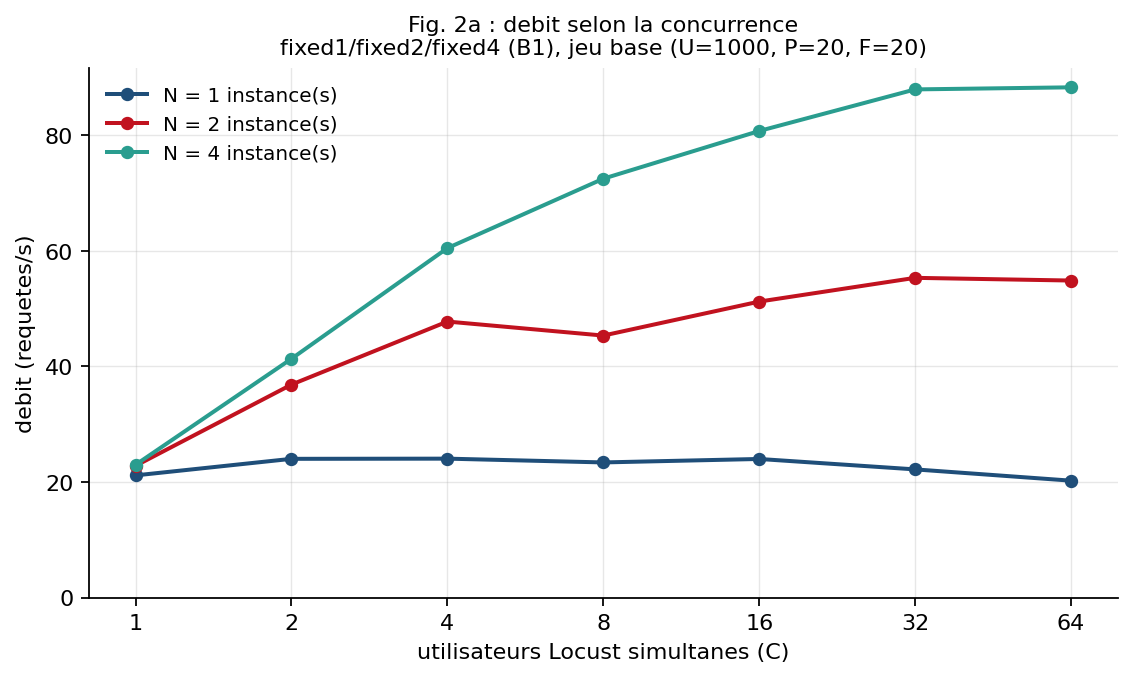
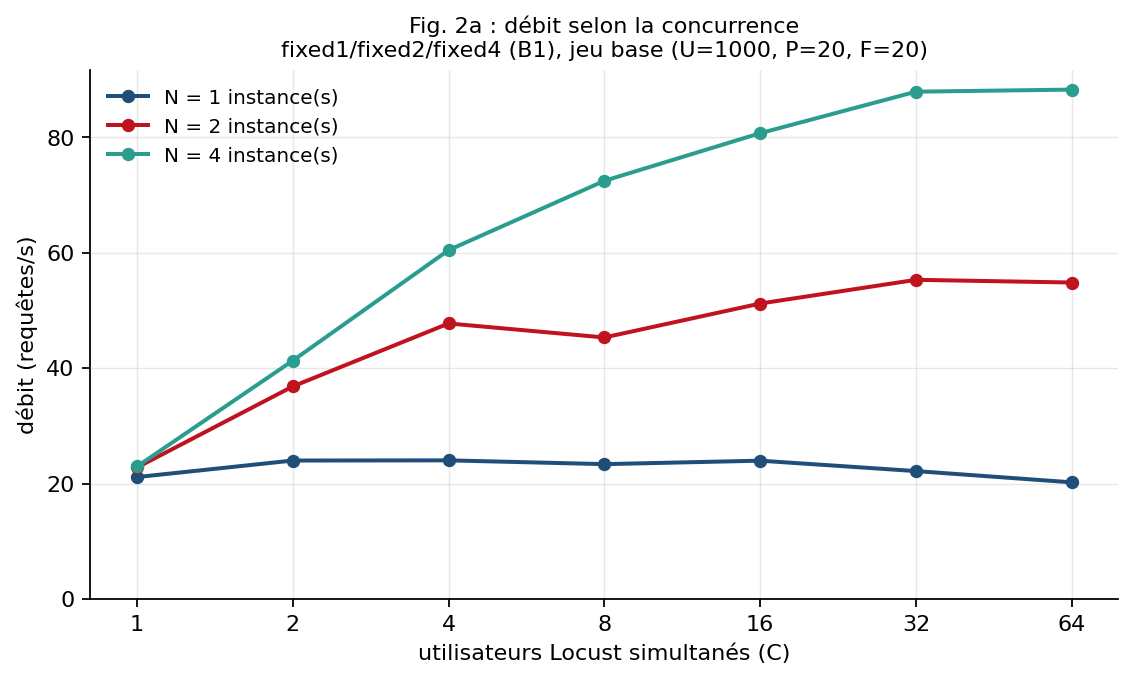
figs

diff --git a/scripts/analyze.py b/scripts/analyze.py
@@ -155,9 +155,9 @@ def fig1a(raw, out, warmup):
             continue
         ax.plot(df[key], df["server_ms_median"], "o-", color=COL[1], lw=1.8, ms=6)
         ax.set_xscale("log")
-        style(ax, lab, "temps serveur median (ms)",
+        style(ax, lab, "temps serveur médian (ms)",
               f"Fig. 1a : temps serveur selon {key}",
-              f"fixed1, 1 requete a la fois ({fixed})")
+              f"fixed1, 1 requête à la fois ({fixed})")
         top = max(top, float(df["server_ms_median"].max()))
     # axe y a partir de 0, sinon une courbe plate a l'air de bouger
     for ax in axes:
@@ -186,9 +186,9 @@ def fig1b(raw, out, warmup):
 
     fig, ax = plt.subplots(figsize=(7.2, 4.4))
     ax.plot(f["F"], f["client_ms_median"], "s-", color=COL[2], lw=1.6, ms=5,
-            label="latence client (mediane)")
+            label="latence client (médiane)")
     ax.plot(f["F"], f["server_ms_median"], "o-", color=COL[1], lw=1.8, ms=5,
-            label="temps serveur (median)")
+            label="temps serveur (médian)")
 
     # une droite par regime, pas une seule a travers la marche
     ok = f.dropna(subset=["server_ms_median"])
@@ -200,19 +200,9 @@ def fig1b(raw, out, warmup):
             xs = np.linspace(seg["F"].min(), seg["F"].max(), 50)
             ax.plot(xs, a * xs + b, "--", color=col, lw=1.3,
                     label=f"{lab} : {a:.2f} ms/followee")
-    if len(hi) and len(lo):
-        ax.axvline(CLIFF_F - 0.5, color="#999999", lw=1, ls=":")
-        note = "\n".join(["Datastore : IN limite a 30 valeurs",
-                          "F+1 = 31 auteurs -> exception",
-                          "-> 1 requete par auteur", "(main.py:65-72)"])
-        ax.annotate(note,
-                    xy=(CLIFF_F - 0.5, ok["server_ms_median"].max() * .30),
-                    xytext=(4, ok["server_ms_median"].max() * .72),
-                    fontsize=8, color="#444444",
-                    arrowprops=dict(arrowstyle="->", color="#999999", lw=1))
     style(ax, "followees par utilisateur (F)", "temps (ms)",
-          "Fig. 1b : cout d'une timeline selon F",
-          "fixed1, 1 requete a la fois (U=120, P=20, limit=20)")
+          "Fig. 1b : coût d'une timeline selon F",
+          "fixed1, 1 requête à la fois (U=120, P=20, limit=20)")
     ax.set_ylim(bottom=0)
     ax.legend(frameon=False, fontsize=9)
     fig.tight_layout()
@@ -258,8 +248,8 @@ def fig2(d, out):
         ax.plot(g["C"], g["throughput_rps"], "o-", lw=1.8, ms=5,
                 color=COL.get(n, "#444"), label=f"N = {n} instance(s)")
     log2_c(ax, d)
-    style(ax, "utilisateurs Locust simultanes (C)", "debit (requetes/s)",
-          "Fig. 2a : debit selon la concurrence", sub)
+    style(ax, "utilisateurs Locust simultanés (C)", "débit (requêtes/s)",
+          "Fig. 2a : débit selon la concurrence", sub)
     ax.set_ylim(bottom=0)
     ax.legend(frameon=False, fontsize=9)
     fig.tight_layout()
@@ -269,14 +259,14 @@ def fig2(d, out):
     for n, g in d.groupby("N"):
         c = COL.get(n, "#444")
         ax.plot(g["C"], g["client_ms_median"], "o-", lw=1.8, ms=5, color=c,
-                label=f"N = {n}, mediane mesuree")
+                label=f"N = {n}, médiane mesurée")
         ax.plot(g["C"], g["client_ms_mean"], "x", ms=7, color=c,
-                label=f"N = {n}, moyenne mesuree")
+                label=f"N = {n}, moyenne mesurée")
         ax.plot(g["C"], g["little_latency_ms"], "--", lw=1.2, color=c, alpha=.75,
-                label=f"N = {n}, Little (C / debit)")
+                label=f"N = {n}, Little (C / débit)")
     log2_c(ax, d)
     ax.set_yscale("log")
-    style(ax, "utilisateurs Locust simultanes (C)", "latence client (ms)",
+    style(ax, "utilisateurs Locust simultanés (C)", "latence client (ms)",
           "Fig. 2b : latence selon la concurrence, et loi de Little", sub)
     ax.legend(frameon=False, fontsize=7, ncol=3)
     fig.tight_layout()
@@ -295,16 +285,16 @@ def fig3(before, after, out):
     d = pd.concat([b, a], ignore_index=True)
 
     labels = {"before (1 sync worker)": "avant (1 worker sync)",
-              "after (2 workers x 8 threads)": "apres (2 workers x 8 threads)"}
+              "after (2 workers x 8 threads)": "après (2 workers x 8 threads)"}
     fig, axes = plt.subplots(1, 2, figsize=(11, 4.2))
     for g, c, m in ((b, COL[1], "o-"), (a, COL[2], "s-")):
         lab = labels[g["variant"].iloc[0]]
         axes[0].plot(g["C"], g["throughput_rps"], m, color=c, lw=1.8, ms=5, label=lab)
         axes[1].plot(g["C"], g["client_ms_median"], m, color=c, lw=1.8, ms=5, label=lab)
-    for ax, yl, t in ((axes[0], "debit (requetes/s)", "debit"),
-                      (axes[1], "latence client mediane (ms)", "latence")):
+    for ax, yl, t in ((axes[0], "débit (requêtes/s)", "débit"),
+                      (axes[1], "latence client médiane (ms)", "latence")):
         log2_c(ax, d)
-        style(ax, "utilisateurs Locust simultanes (C)", yl, f"Fig. 3 : {t}, avant / apres",
+        style(ax, "utilisateurs Locust simultanés (C)", yl, f"Fig. 3 : {t}, avant / après",
               "N=1 (fixed1 vs fix1, B1), jeu base (U=1000, P=20, F=20)")
         ax.set_ylim(bottom=0)
         ax.legend(frameon=False, fontsize=9)
